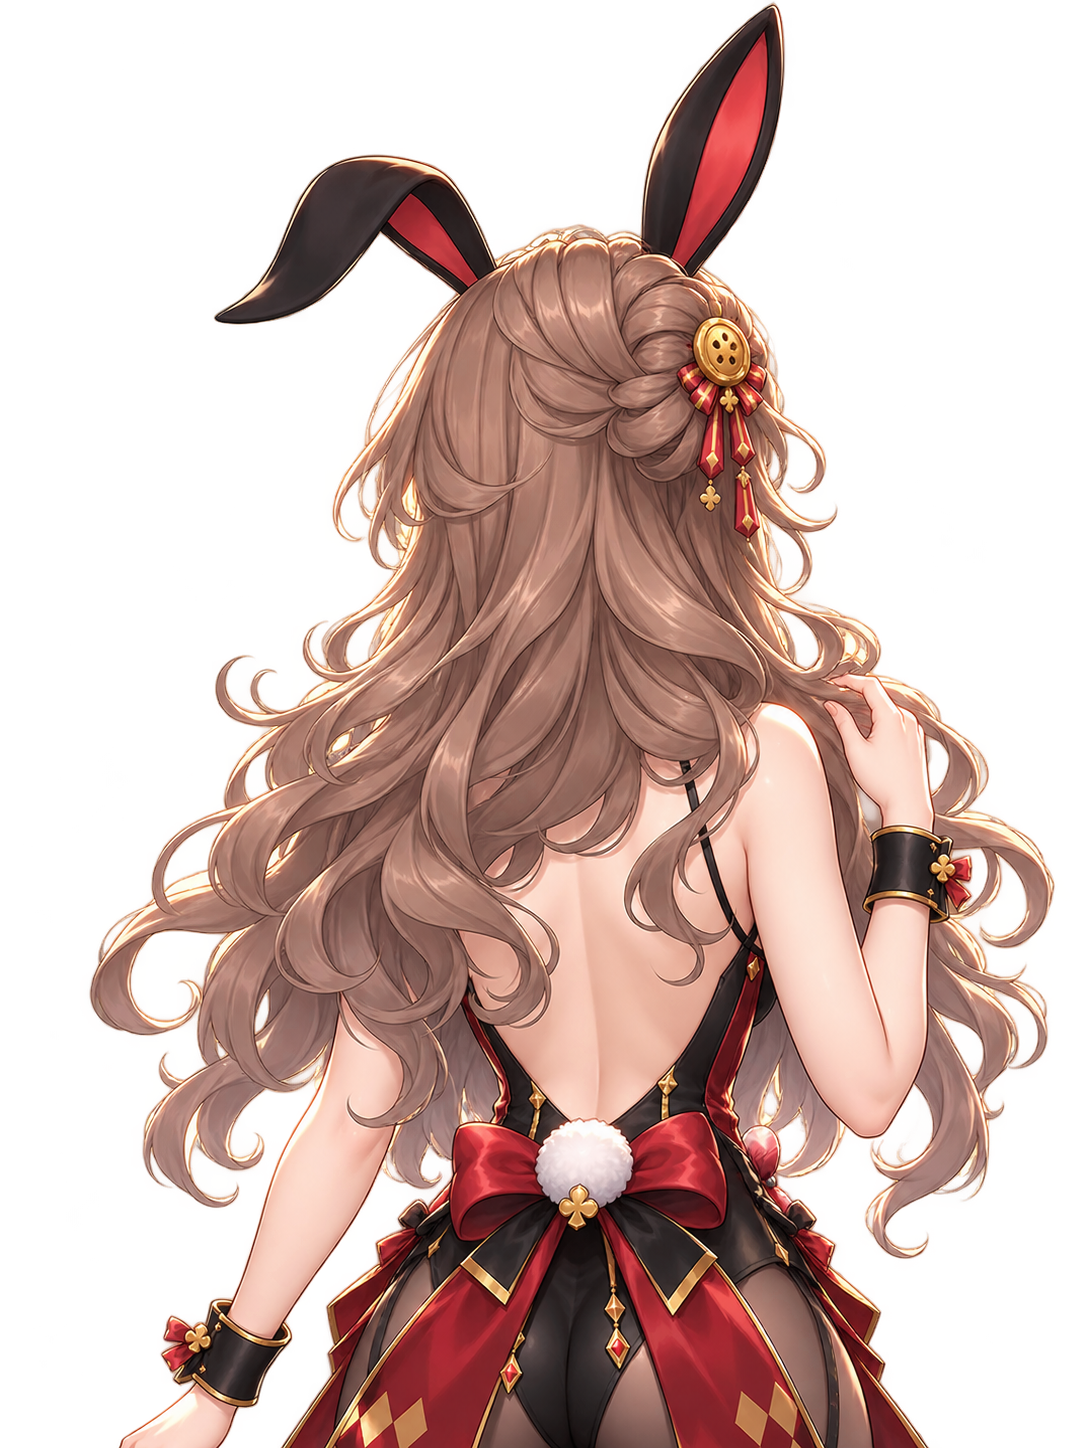
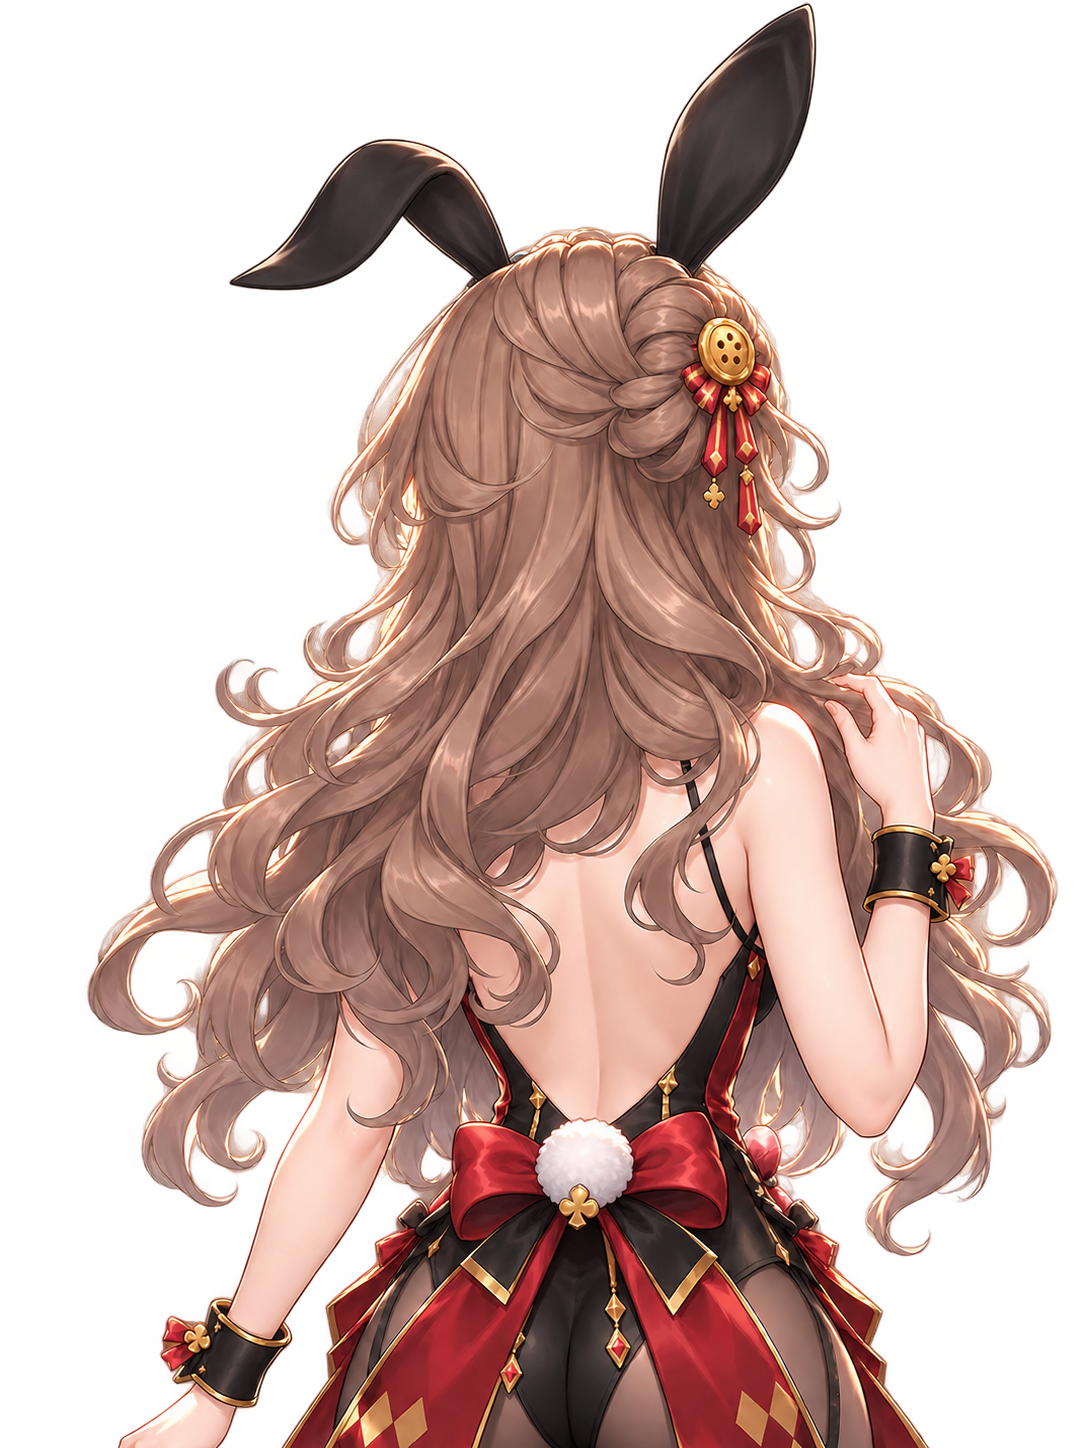
ロビーv5「グランドロビーのカード一覧」＋新背景（グランドクロック・カジノシアター）＋ミミ後ろ姿の耳修正
- 相手カード5枚が金縁の額装で美しく並ぶ最終形（カルーセル廃止）。NEXTは金帯＋一回り大きく＋シャイン付き金CTA、クリア済はCLEARシール＋再戦、施錠はシルエット＋解放条件、VIPは深紅帯
- 背景を新規生成：大時計・大階段・シャンデリアの豪華なグランドクロック・カジノシアター（下半分はUI用に情報量控えめ）
- ミミはロビー非表示（後ろ姿はアセットとして保持、ウサ耳が逆向きだった欠陥は修正版に差し替え済み）
- リコ先輩は左に維持：衣装ランダム＋衣装ビューア導線そのまま。次の相手の攻略ヒントを案内
- 3進行状態のスクショ目視＋操作ヒットテスト済み

diff --git a/style.css b/style.css
@@ -14822,3 +14822,69 @@ button.lb4-hook:hover { border-color: rgba(245,215,122,.7); color: #f0e2b8; }
 
 /* 幕間の顔窓：全身絵時代の2.1倍ズームを廃止（顔クロップ assets/ui/face_* をそのまま表示） */
 .ims-dlg-face img { transform: none !important; object-position: center !important; }
+
+/* ============================================================
+   ロビー v5「グランドロビーのカード一覧」（最終形）
+   相手カードが美しく並び「どの卓につくか悩む」。ミミ非表示・
+   リコ先輩は左に維持。色は黒×金、深紅はVIPと施錠のみ
+   ============================================================ */
+.lobby-screen.v5 .lobby-rico-standing { left: -18px; bottom: 56px; width: 356px; height: 90%; z-index: 3; }
+.lobby-screen.v5 .lb4-rico-bubble { left: 262px; top: 78px; max-width: 240px; }
+
+.lb5-cards { position: absolute; left: 352px; right: 20px; top: 44px; bottom: 78px; display: flex; align-items: flex-end; justify-content: center; gap: 13px; z-index: 2; }
+.lb5-card { position: relative; flex: 1 1 0; min-width: 0; max-width: 178px; height: 430px; background: linear-gradient(180deg, rgba(30,10,16,.9) 0%, rgba(12,4,8,.96) 100%); box-shadow: inset 0 0 0 1px rgba(245,215,122,.4), 0 22px 40px rgba(0,0,0,.65); overflow: hidden; transition: transform .2s ease, box-shadow .25s ease, filter .25s ease; }
+.lb5-card::before { content: ''; position: absolute; inset: 5px; border: 1px solid rgba(245,215,122,.22); pointer-events: none; z-index: 4; }
+.lb5-card:hover { transform: translateY(-10px); box-shadow: inset 0 0 0 1px rgba(245,215,122,.7), 0 30px 50px rgba(0,0,0,.75), 0 0 26px rgba(245,215,122,.25); }
+.lb5-card.is-next { max-width: 196px; height: 468px; box-shadow: inset 0 0 0 2px #f5d77a, 0 0 26px rgba(245,215,122,.4), 0 26px 46px rgba(0,0,0,.7); animation: doorBeckon 2.6s ease-in-out infinite; }
+.lb5-card.is-cleared { filter: saturate(.78) brightness(.84); }
+.lb5-card.is-cleared:hover { filter: saturate(1) brightness(1); }
+.lb5-card.is-locked { box-shadow: inset 0 0 0 1px rgba(200,37,58,.45), 0 22px 40px rgba(0,0,0,.65); }
+.lb5-card.is-vip.is-locked { box-shadow: inset 0 0 0 1px rgba(200,37,58,.7), 0 0 22px rgba(200,37,58,.25), 0 22px 40px rgba(0,0,0,.65); }
+
+.lb5-band { position: absolute; left: 0; right: 0; top: 0; z-index: 5; height: 24px; display: flex; align-items: center; justify-content: center; font-size: 13px; letter-spacing: .3em; }
+.lb5-band-next { background: linear-gradient(90deg, #d9a93a, #f5d77a, #d9a93a); color: #14081d; }
+.lb5-band-vip { background: rgba(200,37,58,.9); color: #fff; }
+.lb5-seal { position: absolute; right: 8px; top: 30px; z-index: 5; font-size: 12px; letter-spacing: .18em; color: #14081d; background: linear-gradient(180deg, #fbe28a, #d9a93a); border-radius: 999px; padding: 2px 10px; box-shadow: 0 3px 8px rgba(0,0,0,.4); }
+.lb5-card.is-next .lb5-seal { top: 32px; }
+
+.lb5-card-portrait { position: absolute; inset: 0; border: 0; padding: 0; background: radial-gradient(ellipse 90% 55% at 50% 22%, rgba(245,215,122,.14), transparent 65%); cursor: pointer; overflow: hidden; z-index: 1; -webkit-tap-highlight-color: transparent; }
+.lb5-card-portrait:disabled { cursor: default; }
+.lb5-card-portrait img { width: 100%; height: 100%; object-fit: cover; object-position: top center; transition: transform .3s cubic-bezier(.2,.8,.3,1); }
+.lb5-card:hover .lb5-card-portrait img { transform: scale(1.05); }
+.lb5-card.is-locked .lb5-card-portrait img { filter: brightness(.15) saturate(.35); }
+
+.lb5-card-foot { position: absolute; left: 0; right: 0; bottom: 0; z-index: 3; padding: 30px 10px 10px; background: linear-gradient(180deg, rgba(11,4,8,0) 0%, rgba(11,4,8,.94) 32%); display: flex; flex-direction: column; align-items: center; gap: 4px; pointer-events: none; }
+.lb5-card-foot button { pointer-events: auto; }
+.lb5-card-title { display: flex; align-items: baseline; gap: 7px; }
+.lb5-card-no { font-size: 19px; color: rgba(245,215,122,.65); }
+.lb5-card-name { font-size: 16px; font-weight: 900; color: #f7eecf; }
+.lb5-card.is-locked .lb5-card-name { color: #8a7c6a; }
+.lb5-card-theme { font-size: 9.5px; color: #c4b89a; line-height: 1.3; text-align: center; }
+.lb5-card-reward { font-size: 10px; color: #c4b89a; display: flex; align-items: baseline; gap: 5px; }
+.lb5-card-reward b { font-size: 20px; line-height: 1; color: #ffe9a8; text-shadow: 0 0 12px rgba(245,215,122,.55); }
+.lb5-card-reward small { font-size: 9px; color: #c4b89a; }
+.lb5-card-need { display: flex; align-items: center; gap: 5px; font-size: 10px; font-weight: 700; color: #8a7c6a; padding: 6px 0 8px; }
+.lb5-card-cta { width: 100%; height: 36px; border: 0; margin-top: 3px; background: rgba(34,15,22,.92); box-shadow: inset 0 0 0 1px rgba(245,215,122,.5); color: #f0e2b8; font-family: inherit; font-size: 13px; font-weight: 900; letter-spacing: .18em; transform: skewX(-8deg); cursor: pointer; -webkit-tap-highlight-color: transparent; touch-action: manipulation; transition: filter .15s ease; }
+.lb5-card-cta > span { display: inline-block; transform: skewX(8deg); }
+.lb5-card-cta:hover { filter: brightness(1.25); }
+.lb5-card-cta:active { transform: skewX(-8deg) translateY(2px); }
+.lb5-card-cta.is-gold { position: relative; overflow: hidden; background: linear-gradient(90deg, #f5d77a, #ffdf9a, #d9b35a); color: #14081d; box-shadow: 0 0 18px rgba(245,215,122,.45), 0 3px 0 rgba(0,0,0,.35); }
+.lb5-card-cta.is-gold::after { content: ''; position: absolute; top: 0; bottom: 0; width: 46px; background: rgba(255,255,255,.5); transform: translateX(-160%) skewX(-18deg); animation: lb3CtaShine 3s ease-in-out infinite; }
+.lb5-card-skip { border: 0; background: none; padding: 1px 0; font-family: inherit; font-size: 9.5px; color: #9a8c78; border-bottom: 1px solid rgba(154,140,120,.5); cursor: pointer; -webkit-tap-highlight-color: transparent; }
+.lb5-card-skip:hover { color: #ffe9a8; }
+
+@media (prefers-reduced-motion: reduce) {
+  .lb5-card, .lb5-card-portrait img { transition: none !important; }
+  .lb5-card.is-next, .lb5-card-cta.is-gold::after { animation: none !important; }
+}
+
+/* v5背景：新規生成の「グランドクロック・カジノシアター」ロビー（生成絵をそのまま主役に） */
+.lobby-screen.v5 .bg-lobby {
+  background:
+    linear-gradient(180deg, rgba(11,5,16,.4) 0%, rgba(11,5,16,.1) 34%, rgba(11,5,16,.78) 100%),
+    url('assets/backgrounds/bg_lobby_clock.jpg') center 24% / cover no-repeat,
+    #14060a;
+  background-blend-mode: normal;
+  filter: none;
+}
+.lobby-screen.v5 .bg-lobby::after { display: none; }

diff --git a/index.html b/index.html
@@ -34,7 +34,7 @@
 </style>
 <link rel="preconnect" href="https://fonts.googleapis.com">
 <link rel="stylesheet" href="https://fonts.googleapis.com/css2?family=Bebas+Neue&display=swap">
-<link rel="stylesheet" href="style.css?v=20260829f">
+<link rel="stylesheet" href="style.css?v=20260829g">
 </head>
 <body>
 <div id="preload-overlay">
@@ -136,7 +136,7 @@
 </template>
 
 <template id="tpl-lobby">
-  <div class="screen lobby-screen v3 v4">
+  <div class="screen lobby-screen v3 v4 v5">
     <div class="bg-layer bg-lobby"></div>
 
     <header class="top-hud lobby-hud">
@@ -161,28 +161,8 @@
       </div>
       <div class="lb4-rico-bubble" data-bind="lb4RicoLine">「ようこそ。今夜の卓、案内するよ」</div>
 
-      <!-- 中央：卓のカルーセル（選んだ相手が卓の向こうに立つ） -->
-      <div class="lb4-scene">
-        <div class="lb4-dots" data-bind="lb4Dots"></div>
-        <div class="v2-disp lb4-typo" data-bind="lb4Typo"></div>
-        <img class="lb4-opp" data-bind="lb4OppImg" src="assets/characters/polka_default.png" alt="">
-        <div class="lb4-opp-shadow"></div>
-        <div class="lb4-table">
-          <div class="lb4-table-felt"></div>
-          <div class="lb4-table-cards" aria-hidden="true"><i></i><i></i></div>
-          <div class="lb4-table-chips" aria-hidden="true"><i></i><i></i><i></i></div>
-          <div class="lb4-plate" data-bind="lb4Plate"></div>
-        </div>
-        <div class="lb4-taunt" data-bind="lb4Taunt"></div>
-        <button class="lb4-arrow lb4-arrow-l" data-action="lb4-prev" title="前の卓へ"><svg width="30" height="30" viewBox="0 0 24 24" fill="none" stroke="currentColor" stroke-width="2.4" stroke-linecap="round" stroke-linejoin="round"><path d="M15 18l-6-6 6-6"></path></svg></button>
-        <button class="lb4-arrow lb4-arrow-r" data-action="lb4-next" title="次の卓へ"><svg width="30" height="30" viewBox="0 0 24 24" fill="none" stroke="currentColor" stroke-width="2.4" stroke-linecap="round" stroke-linejoin="round"><path d="M9 6l6 6-6 6"></path></svg></button>
-        <button class="lb4-cta" data-bind="lb4Cta" data-action="battle-start"><span data-bind="lb4CtaLabel">この卓につく ▶</span></button>
-        <div class="lb4-sub" data-bind="lb4Sub"></div>
-      </div>
-
-      <!-- 手前右下：ミミの後ろ姿（肩越し視点） -->
-      <img class="lb4-mimi-back" data-bind="lb4MimiBack" src="assets/characters/mimi_back.webp" alt="ミミ"
-           onerror="this.style.display='none';">
+      <!-- 相手カードの一覧：どの卓につくか悩む美しさで並べる -->
+      <section class="lb5-cards" data-bind="lb5Cards"></section>
 
       <!-- 右上：帰ってくる理由（ログボ／CG進捗・控えめ） -->
       <div class="lb4-hooks" data-bind="lb4Hooks"></div>
@@ -473,6 +453,6 @@
   </div>
 </template>
 
-<script src="game.js?v=20260829f"></script>
+<script src="game.js?v=20260829g"></script>
 </body>
 </html>
